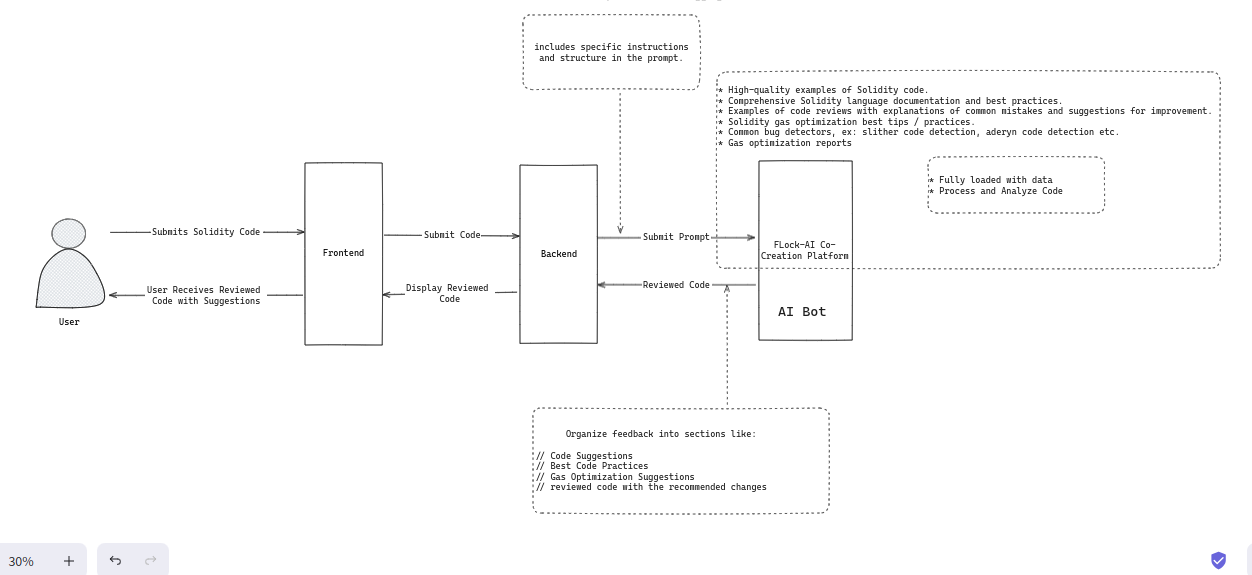
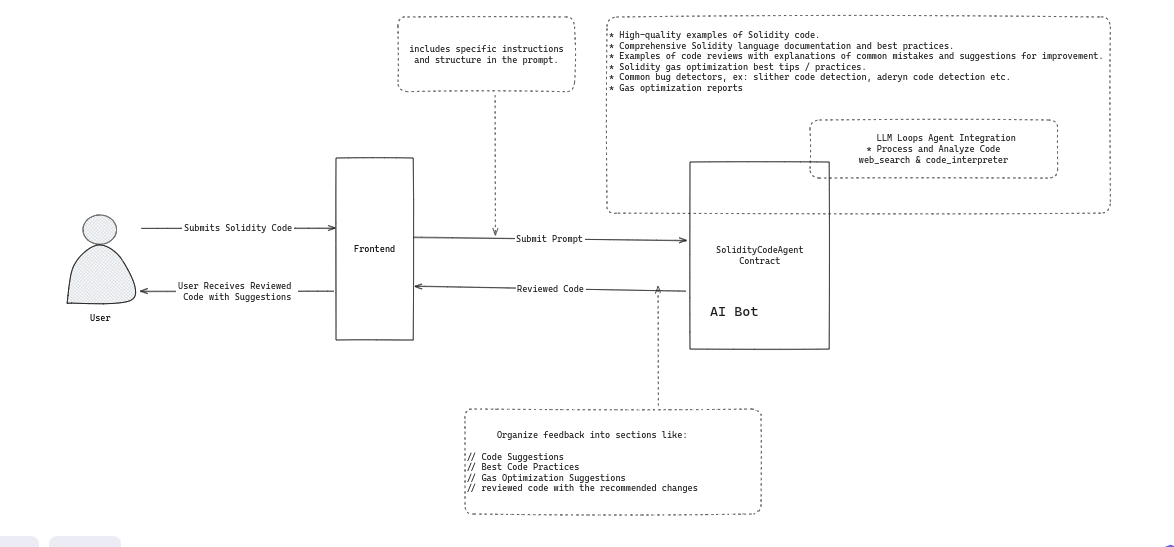
docs : added README file

diff --git a/README.md b/README.md
@@ -1,16 +1,17 @@
-# Solidity Code Co-Pilots
-
+<div align="center">
+<h1>SmartGenie</h1>
+  <img src="./public/logo.svg" alt="Project Icon" width="150" height="150">
+</div>
 Use AI to review your Solidity code.
 
-![Solidity Code Co-Pilots](./public/Solidity-Co-Pilots.png)
-
+![SmartGenie](./public/SmartGenieScreenShot.png)
 
 ## Running Locally
 
 1. **Clone Repo**
 
    ```bash
-   git clone https://github.com/thopatevijay/solidity-co-pilots.git
+   git clone https://github.com/thopatevijay/SmartGenie.git
    ```
 
 2. **Install Dependencies**
@@ -27,26 +28,35 @@ Use AI to review your Solidity code.
 ## Technical Stack
 
 - **Frontend**: Next.js
-- **Backend**: Node.js,
-- **AI Integration**: Flock's AI Co-Creation Platform
+- **AI Integration**: Galadriel's LLM Loops Agent
 - **Styling**: Tailwind CSS
+
+## LLM Loops Agent Integration
+
+In Project Name, we have integrated a sophisticated LLM Loops Agent that enhances our platform's capabilities by performing iterative querying and responding. The agent is configured to use tools like `web_search` and `code_interpreter` to provide real-time data retrieval and code analysis functionalities.
+
+### How It Works:
+
+1. **Initialization**: The agent is initialized with specific prompts and configurations to perform tasks related to Solidity smart contracts.
+2. **Tool Usage**:
+   - **web_search**: Used to fetch real-time data and best practices from the internet.
+   - **code_interpreter**: Executes Solidity code snippets for analysis and validation.
+3. **Iterative Process**: The agent performs multiple iterations to refine responses and provide the most accurate and relevant suggestions.
 
 ## Links
 
-- **AI Bot Resources and Parameters**: [AI Bot Link](https://beta.flock.io/model/clxrgmu3a0021he5r7ka3vqg1)
-- **Live Project**: [Live Project Link](https://solidity-co-pilots-9lms.vercel.app/)
+- **Live Project**: [Live Project Link](https://smart-genie.vercel.app/)
+- **Contract Address**: [0xC2d7B3Fa552c49cf4fb1d7FBD8c58cf41e34a5C8](https://explorer.galadriel.com/address/0xC2d7B3Fa552c49cf4fb1d7FBD8c58cf41e34a5C8)
 
 ## Flow Diagram
 
 ![Solidity Code Co-Pilots Flow Diagram](./public/flow-diagram.png)
 
-
 ## Future Enhancements / Coming Features
 
-- **Solidity Code Editor**: Integrate Monaco Editor for a seamless coding experience.
+- **Enhanced Analytics**: Advanced analytics dashboard to provide insights into smart contract performance and usage statistics.
 - **Code Suggestions**: Provide real-time code suggestions similar to GitHub Copilot.
 - **VS Code Extension**: Develop an extension for VS Code to integrate AI code reviews directly.
-- **User Accounts**: Add user account features to save and load code review history.
 - **Advanced AI Features**: Implement advanced AI algorithms for better code analysis and optimization suggestions.
 - **Collaboration Tools**: Enable real-time collaboration for teams working on Solidity projects.
 
